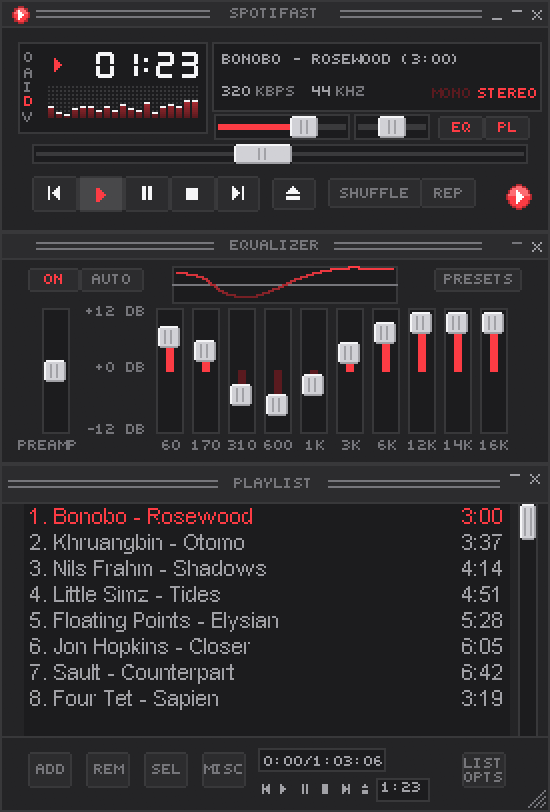
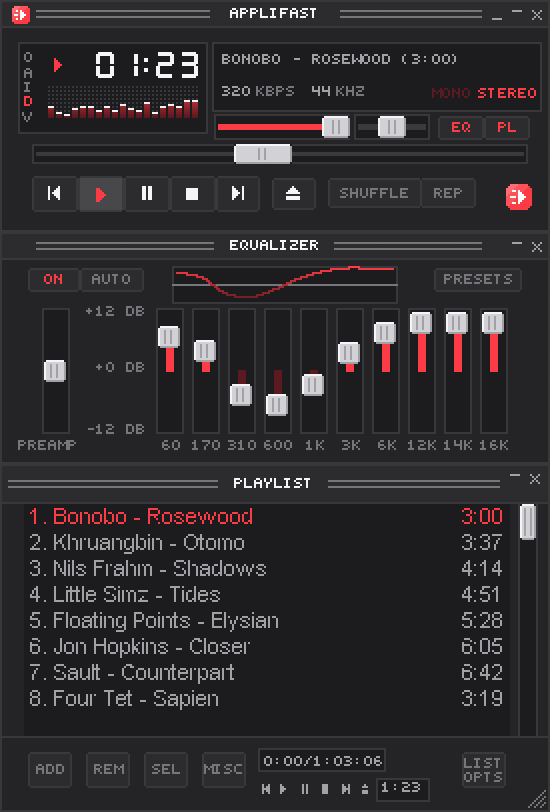
Title the built-in mini player skin Applifast
The skin's title bars and the marquee preview say APPLIFAST, and its logo
button and title-bar mark are redrawn as the new icon in pixels: a rounded
red square lit at the top left, with the white play triangle and its
speed lines, at 9 and 13 pixels. The skin archive and the website's mini
player picture are regenerated.

diff --git a/examples/default_skin.rs b/examples/default_skin.rs
@@ -232,26 +232,27 @@ impl Canvas {
         );
     }
 
-    /// The app's mark in pixels: the disc with a darker rim and a lit top,
-    /// and the play triangle.
-    fn logo(&mut self, cx: i64, cy: i64, radius: i64, disc: Rgb, glyph: Rgb) {
-        let shade = |c: Rgb, f: f32| c.map(|v| (f32::from(v) * f).round() as u8);
+    /// The app's mark in pixels, as `src/util.rs` draws the icon: a rounded
+    /// square lit at the top left, the play triangle, and speed lines
+    /// trailing it, the middle one longest.
+    fn logo(&mut self, cx: i64, cy: i64, radius: i64, tile: Rgb, glyph: Rgb) {
         let lift =
             |c: Rgb, f: f32| c.map(|v| (f32::from(v) + (255.0 - f32::from(v)) * f).round() as u8);
-        let outer = radius * radius + radius / 2;
-        let inner = (radius - 1) * (radius - 1) + (radius - 1) / 2;
+        // Corners rounded by half the radius.
+        let corner = radius / 2;
         for y in -radius..=radius {
             for x in -radius..=radius {
-                let d = x * x + y * y;
-                if d > outer {
+                let qx = (x.abs() - (radius - corner)).max(0);
+                let qy = (y.abs() - (radius - corner)).max(0);
+                if qx * qx + qy * qy > corner * corner + corner {
                     continue;
                 }
-                let colour = if d > inner {
-                    shade(disc, 0.7)
-                } else if y < 0 {
-                    lift(disc, 0.25)
+                let colour = if x + y < -radius {
+                    lift(tile, 0.25)
+                } else if x + y < 0 {
+                    lift(tile, 0.12)
                 } else {
-                    disc
+                    tile
                 };
                 self.set(cx + x, cy + y, colour);
             }
@@ -260,7 +261,12 @@ impl Canvas {
         for dy in -half..=half {
             let span = half - dy.abs();
             for dx in 0..=span {
-                self.set(cx - half / 2 + dx, cy + dy, glyph);
+                self.set(cx + dx, cy + dy, glyph);
+            }
+        }
+        for (dy, length) in [(-half, half - 1), (0, half), (half, half - 1)] {
+            for dx in 0..length.max(1) {
+                self.set(cx - 2 - dx, cy + dy, glyph);
             }
         }
     }
@@ -362,7 +368,7 @@ fn title_bar(c: &mut Canvas, x: i64, y: i64, active: bool, shade: bool) {
     c.frame((x, y, 275, 14), OUTLINE);
     let color = if active { TEXT } else { DIM };
     if shade {
-        c.text(x + 20, y + 4, "SPOTIFAST", color);
+        c.text(x + 20, y + 4, "APPLIFAST", color);
         // Shade mode's tiny transport lives in the bar itself.
         let glyphs: [(i64, i64, &str); 6] = [
             (169, 7, "#..#/#.##/####/#.##/#..#"),
@@ -379,7 +385,7 @@ fn title_bar(c: &mut Canvas, x: i64, y: i64, active: bool, shade: bool) {
         display(c, (x + 124, y + 2, 36, 10));
         display(c, (x + 226, y + 4, 17, 7));
     } else {
-        c.text_centred((x, y + 1, 275, 12), "SPOTIFAST", color);
+        c.text_centred((x, y + 1, 275, 12), "APPLIFAST", color);
         let width = 5 * 10 - 1;
         let start = x + (275 - width) / 2;
         title_lines(c, x + 18, start - 8, y + 5);
@@ -895,7 +901,7 @@ fn preview(skin: &Skin) -> image::RgbaImage {
             }
         }
     };
-    text("SPOTIFAST - A WINAMP SKIN *** ", layout::MARQUEE);
+    text("APPLIFAST - A WINAMP SKIN *** ", layout::MARQUEE);
     text("320", layout::KBPS);
     text("44", layout::KHZ);
     let volume = layout::VOLUME;
